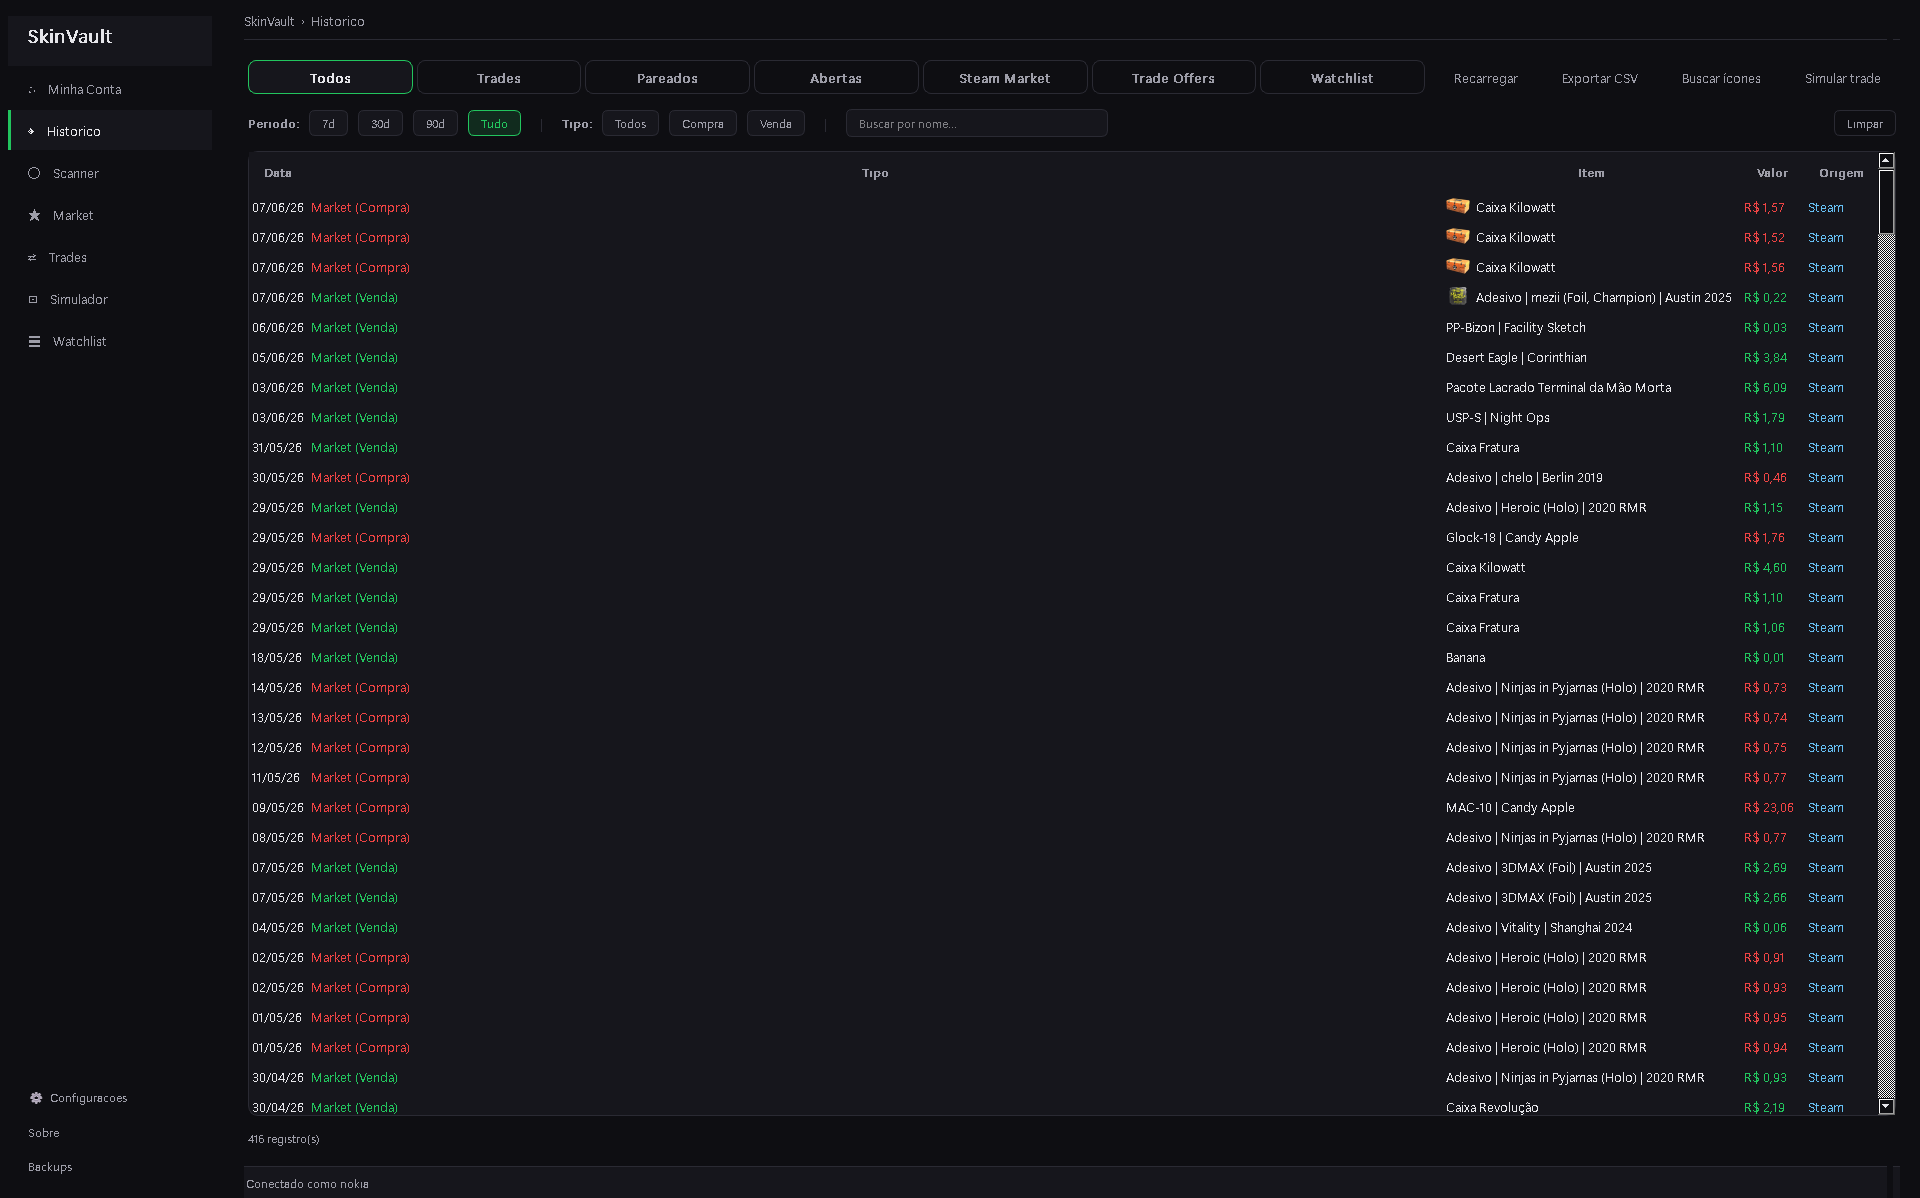
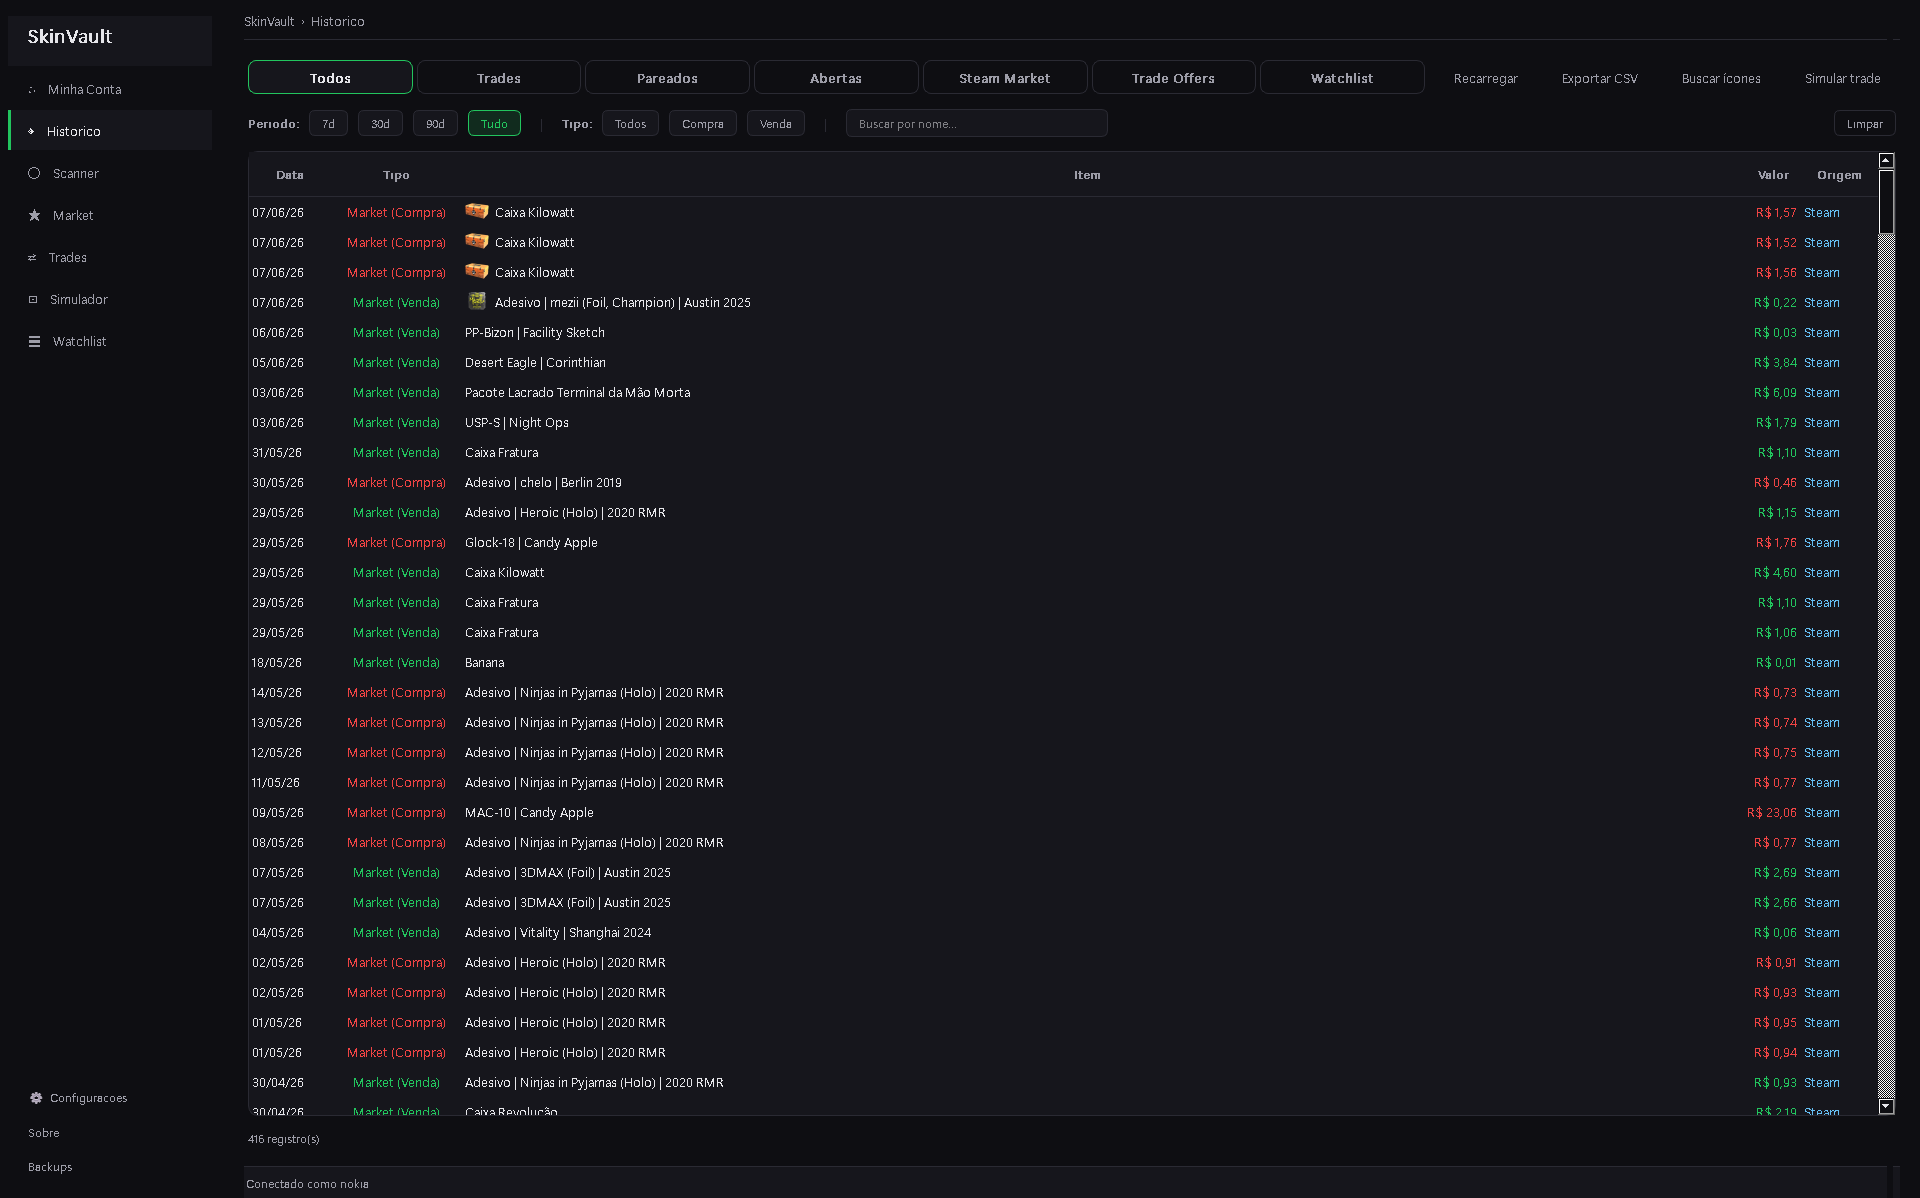
ui: layout Windows 11 dark no HistoryScreen
Feedback: "centralizar, reorganizar, ate' mesmo as cores. A UI pode ser
Windows 11 Theme Escuro."

Problema: a coluna Tipo (index 1) era a stretching column, sobrava
espaco enorme entre Tipo e Item. Item ficava na borda direita.

Mudancas em _populate:
- Stretching detecta dinamicamente a coluna "Item"/"Itens" pelo header
  (nao mais hardcoded index 1).
- Demais colunas usam ResizeToContents — fica compacto.
- Colunas monetarias (Valor/Preço/P&L/etc) alinhadas a DIREITA com
  AlignVCenter, header alinha junto. Convencao trading-app.
- Coluna Tipo (chip Compra/Venda) ganha AlignCenter — visual mais
  centrado.

Refinamento table_style() em theme.py:
- QTableWidget::item ganha padding 4px 12px (era zero).
- Header section: padding 10px 12px + border-bottom de 1px com a cor
  BORDER — separador sutil entre header e dados, estilo Win11/Fluent.

Resultado: Item agora preenche o centro da tabela, Valor alinhado a
direita facilita leitura de preco, todo o layout fica balanceado.
1284 testes seguem passando.

diff --git a/skinvault/ui/history_screen.py b/skinvault/ui/history_screen.py
@@ -975,17 +975,54 @@ class HistoryScreen(QWidget):
                         if not px.isNull():
                             it.setIcon(QIcon(px))
                 self._table.setItem(i, c, it)
-        # Ajusta altura das linhas — compacto estilo trader
+        # Ajusta altura das linhas — compacto estilo trader Win11
         if icon_col is not None:
             for i in range(self._table.rowCount()):
                 self._table.setRowHeight(i, 30)
+        # Layout das colunas estilo trading app:
+        # - "Item" (ou "Itens") stretcha pra preencher o resto
+        # - Demais colunas tem largura fixa pelo conteudo
+        # - Colunas numericas alinhadas a direita
         hh = self._table.horizontalHeader()
+        item_col = next(
+            (i for i, h in enumerate(headers) if h in ("Item", "Itens")),
+            -1,
+        )
+        money_cols = {
+            i for i, h in enumerate(headers)
+            if h in ("Valor", "Preço", "Preco", "P&L", "Preco atual",
+                     "P&L se vender hoje", "Preco de compra")
+        }
         for i in range(self._table.columnCount()):
-            hh.setSectionResizeMode(
-                i,
-                QHeaderView.ResizeMode.Stretch if i == 1
-                else QHeaderView.ResizeMode.ResizeToContents,
-            )
+            if i == item_col:
+                hh.setSectionResizeMode(i, QHeaderView.ResizeMode.Stretch)
+            else:
+                hh.setSectionResizeMode(
+                    i, QHeaderView.ResizeMode.ResizeToContents,
+                )
+        # Alinhamento por coluna
+        for i in range(self._table.rowCount()):
+            for c in range(self._table.columnCount()):
+                cell = self._table.item(i, c)
+                if cell is None:
+                    continue
+                if c in money_cols:
+                    cell.setTextAlignment(
+                        Qt.AlignmentFlag.AlignRight
+                        | Qt.AlignmentFlag.AlignVCenter,
+                    )
+                elif c == side_op_col and headers[c] in ("Operação", "Tipo"):
+                    cell.setTextAlignment(
+                        Qt.AlignmentFlag.AlignCenter,
+                    )
+        # Header tambem precisa alinhar pra bater com cells
+        for c in money_cols:
+            hi = self._table.horizontalHeaderItem(c)
+            if hi is not None:
+                hi.setTextAlignment(
+                    Qt.AlignmentFlag.AlignRight
+                    | Qt.AlignmentFlag.AlignVCenter,
+                )
         self._table.setSortingEnabled(was_sorting)
 
         # Background prefetch dos icones faltantes — UI ja' populada,

diff --git a/skinvault/ui/theme.py b/skinvault/ui/theme.py
@@ -156,8 +156,10 @@ def table_style() -> str:
         f" gridline-color: transparent; border: 1px solid {BORDER};"
         f" border-radius: 10px; color: {TEXT}; font-size: {FS_BODY};"
         f" font-family: {FONT_FAMILY}; }}"
+        f"QTableWidget::item {{ padding: 4px 12px; }}"
         f"QHeaderView::section {{ background: {BG_ELEVATED};"
-        f" color: {TEXT_MUTED}; border: none; padding: 8px 10px;"
+        f" color: {TEXT_MUTED}; border: none;"
+        f" border-bottom: 1px solid {BORDER}; padding: 10px 12px;"
         f" font-weight: 600; font-size: {FS_MUTED}; }}"
         f"QTableWidget::item:hover {{ background: rgba(255,255,255,0.04); }}"
         f"QTableWidget::item:selected {{ background: {ACCENT_DIM};"
